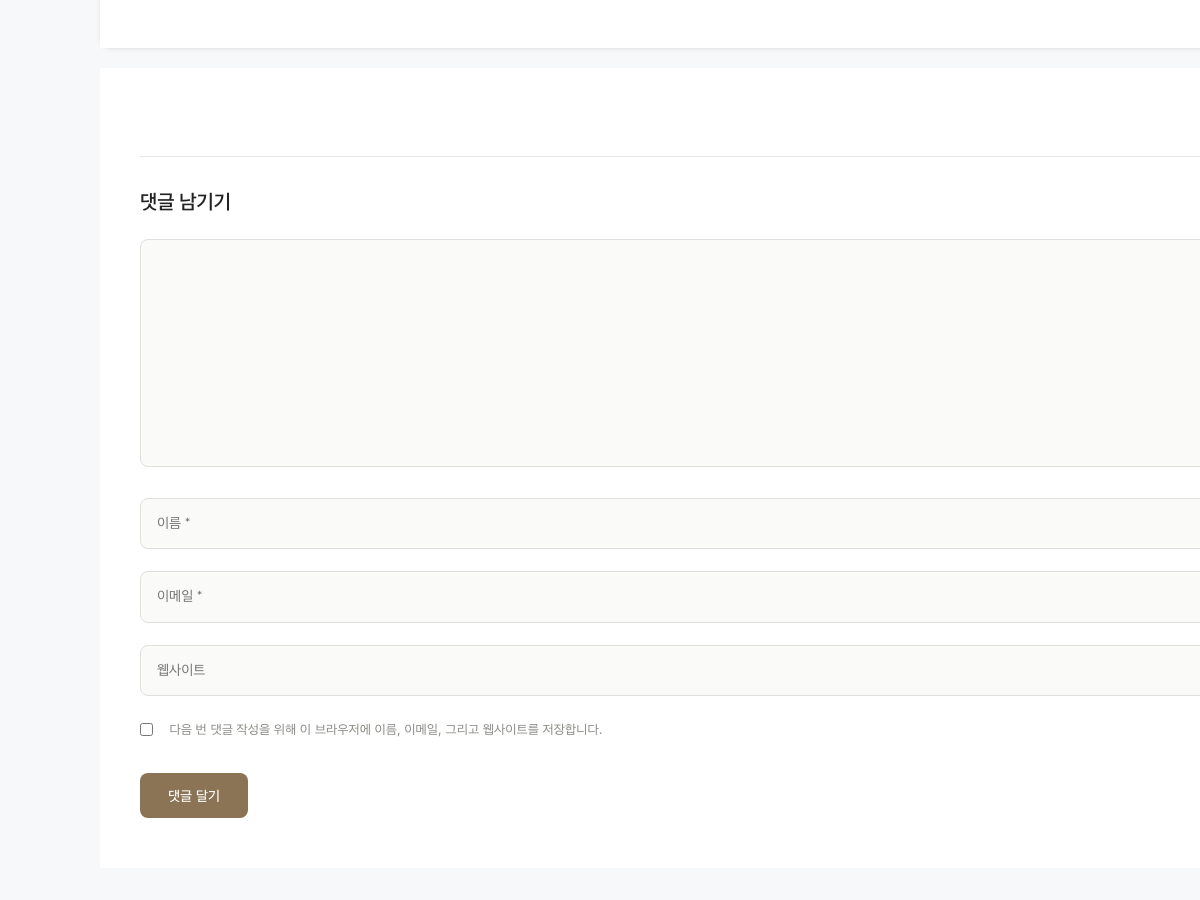
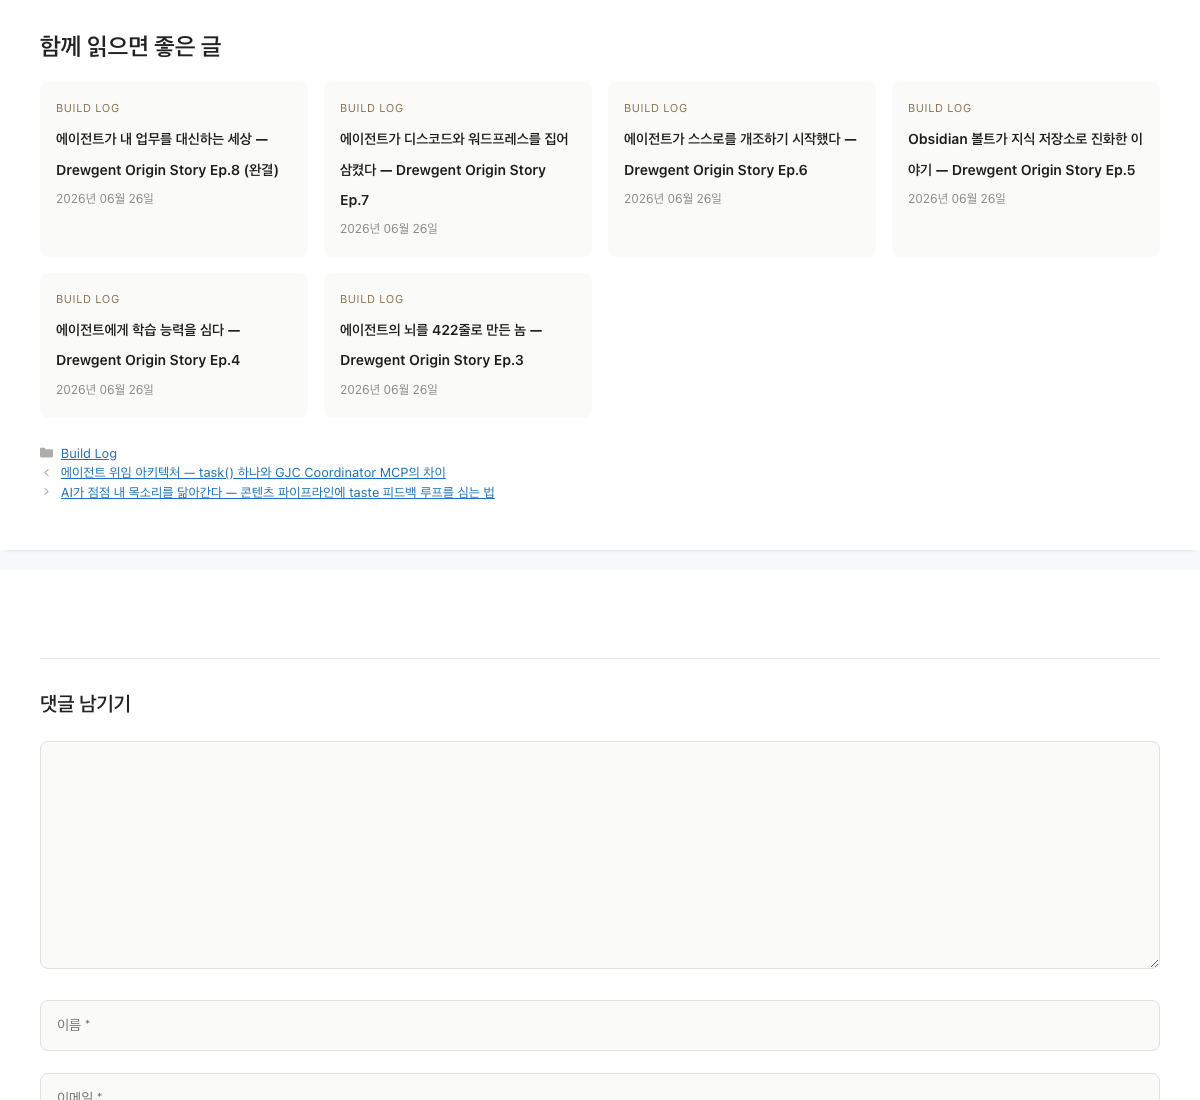
Fix screenshots: use correct Ep.1 post with series nav
- Replace wrong zone3 crop (was comments section) with correct Related Posts Grid from Drewgent Origin Story Ep.1
- Add series navigation screenshot (cq-zone1-nav.png) showing actual prev/next nav
- Remove unused full-post screenshot
- Update HOW IT WORKS to show both zone screenshots
- Fix demo link to humanerd.kr AI Tools category

diff --git a/index.html b/index.html
@@ -191,16 +191,24 @@ section:nth-child(6) { animation-delay: 0.5s; }
     <div class="demo-zones">
       <div class="demo-zone">
         <div class="demo-zone-label">
-          <span class="tag orange">Related Posts Grid</span>
-          <span>on humanerd.kr — 6 taxonomy-matched cards at the bottom of every post</span>
+          <span class="tag green">Series Navigation</span>
+          <span>auto-detects Ep.1, Part 2 patterns — rendered at the bottom of every series post</span>
         </div>
-        <img src="cq-zone3-grid.png" alt="Content Quicksand related posts grid at the bottom of a WordPress blog post on humanerd.kr showing 6 taxonomy-matched article cards with titles, categories, and dates">
-        <div class="demo-zone-desc">Multi-dimensional scoring — series, category, recency, and tags. Up to 6 cards per post. All in pure PHP, no external APIs.</div>
+        <img src="cq-zone1-nav.png" alt="Content Quicksand series navigation bar showing prev/next links and progress indicator for the Drewgent Origin Story series on humanerd.kr">
+        <div class="demo-zone-desc">Readers see prev/next links with a series title. Works with <code>Ep.1</code>, <code>Part 2</code>, <code>에피소드 3</code> patterns.</div>
+      </div>
+      <div class="demo-zone">
+        <div class="demo-zone-label">
+          <span class="tag orange">Related Posts Grid</span>
+          <span>6 taxonomy-matched cards below every post</span>
+        </div>
+        <img src="cq-zone3-grid.png" alt="Content Quicksand related posts grid on humanerd.kr showing 6 article cards with titles, categories, and dates">
+        <div class="demo-zone-desc">Multi-dimensional scoring — series, category, recency, and tags. Up to 6 cards per post. Pure PHP, no external APIs.</div>
       </div>
     </div>
 
     <div class="demo-live">
-      <a class="btn btn-outline" href="https://humanerd.kr/ai/%EC%9E%90%EB%8F%99%ED%99%94%EB%8A%94-%EB%AF%BF%EC%9D%8C%EC%9D%B4-%EC%95%84%EB%8B%88%EB%9D%BC-%EC%84%A4%EA%B3%84%EB%8B%A4" target="_blank">See it live on humanerd.kr →</a>
+      <a class="btn btn-outline" href="https://humanerd.kr/category/ai-tools/" target="_blank">See it live on humanerd.kr →</a>
     </div>
   </div>
 </section>